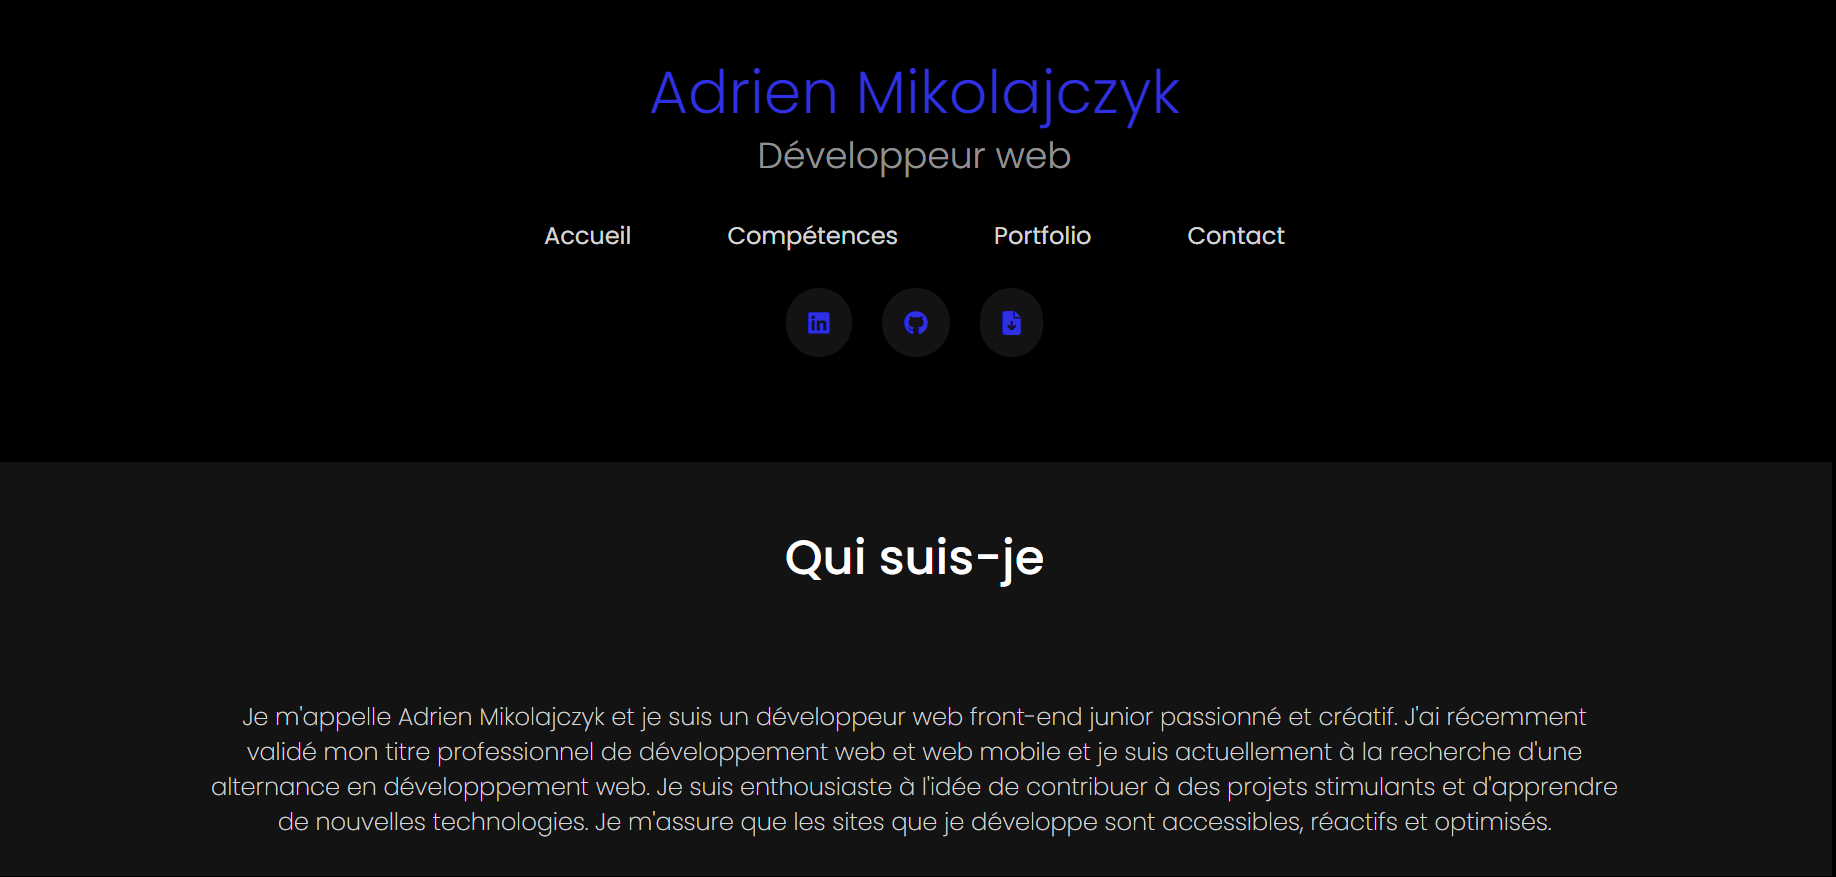
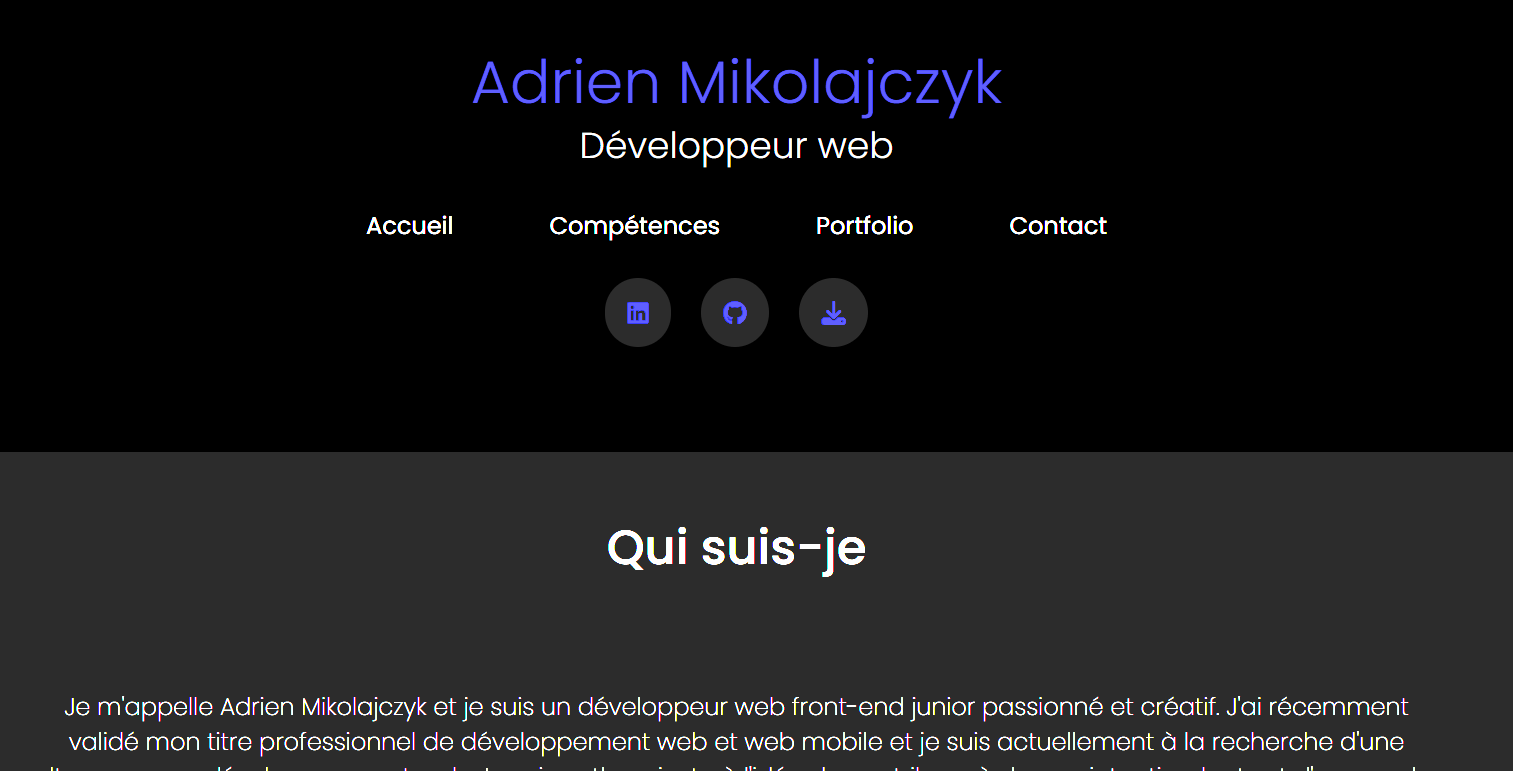
animation devskills et toolskills

diff --git a/index.html b/index.html
@@ -67,7 +67,7 @@
       <section class="skills" id="competences">
         <!-- <h2>Compétences</h2> -->
         <div class="container skills-container">
-          <div class="skills-subcontainer">
+          <div class="skills-subcontainer devSkills">
             <h3>Développement</h3>
             <div class="icons-skills">
               <i class="fa-brands fa-html5"></i>
@@ -83,7 +83,7 @@
               framework React en me formant en autodidacte.
             </p>
           </div>
-          <div class="skills-subcontainer">
+          <div class="skills-subcontainer toolSkills">
             <h3>Outils</h3>
             <div class="icons-skills">
               <i class="fa-brands fa-github"></i>
@@ -136,7 +136,7 @@
           </div>
           <div class="project">
             <h3>CV Numérique</h3>
-            <img src="assets/img/cv-project.png" alt="" />
+            <img src="assets/img/cv-project.png" alt="" class="widthImg" />
             <p class="project-description">
               Ce CV numérique à été réalisé en HTML, CSS et JS. J'ai également
               utilisé Make sur le formulaire de contact pour stocker

diff --git a/assets/css/style.css b/assets/css/style.css
@@ -174,9 +174,30 @@ nav ul li:hover::after {
   align-items: center;
   gap: 40px;
   width: 30vw;
-  /* border: 1px solid var(--blue);
-  border-radius: 20px; */
   padding: 40px;
+}
+.devSkills {
+  position: relative;
+  left: -80%;
+  opacity: 0;
+  transition: left 0.6s ease, opacity 1s ease;
+}
+.devSkills.visible {
+  left: 50%;
+  transform: translateX(-50%);
+  opacity: 1;
+}
+.toolSkills {
+  position: relative;
+  right: -80%;
+
+  opacity: 0;
+  transition: right 0.6s ease, opacity 1s ease;
+}
+.toolSkills.visible2 {
+  right: 50%;
+  transform: translateX(50%);
+  opacity: 1;
 }
 .icons-skills {
   font-size: 3rem;
@@ -216,6 +237,9 @@ nav ul li:hover::after {
   height: 200px;
   filter: brightness(90%);
   transition: 0.2s ease-in-out;
+}
+.widthImg {
+  width: 350px;
 }
 .project .project-description {
   position: absolute;

diff --git a/assets/js/script.js b/assets/js/script.js
@@ -68,6 +68,26 @@ window.addEventListener("scroll", () => {
 //   });
 // });
 
+//animation display from left
+
+window.addEventListener("scroll", () => {
+  const devSkills = document.querySelector(".devSkills");
+  const toolSkills = document.querySelector(".toolSkills");
+  const scrollY = window.scrollY;
+
+  if (scrollY > 460) {
+    devSkills.classList.add("visible");
+  } else {
+    devSkills.classList.remove("visible");
+  }
+
+  if (scrollY > 700) {
+    toolSkills.classList.add("visible2");
+  } else {
+    toolSkills.classList.remove("visible2");
+  }
+});
+
 //form
 
 document.addEventListener("DOMContentLoaded", () => {
